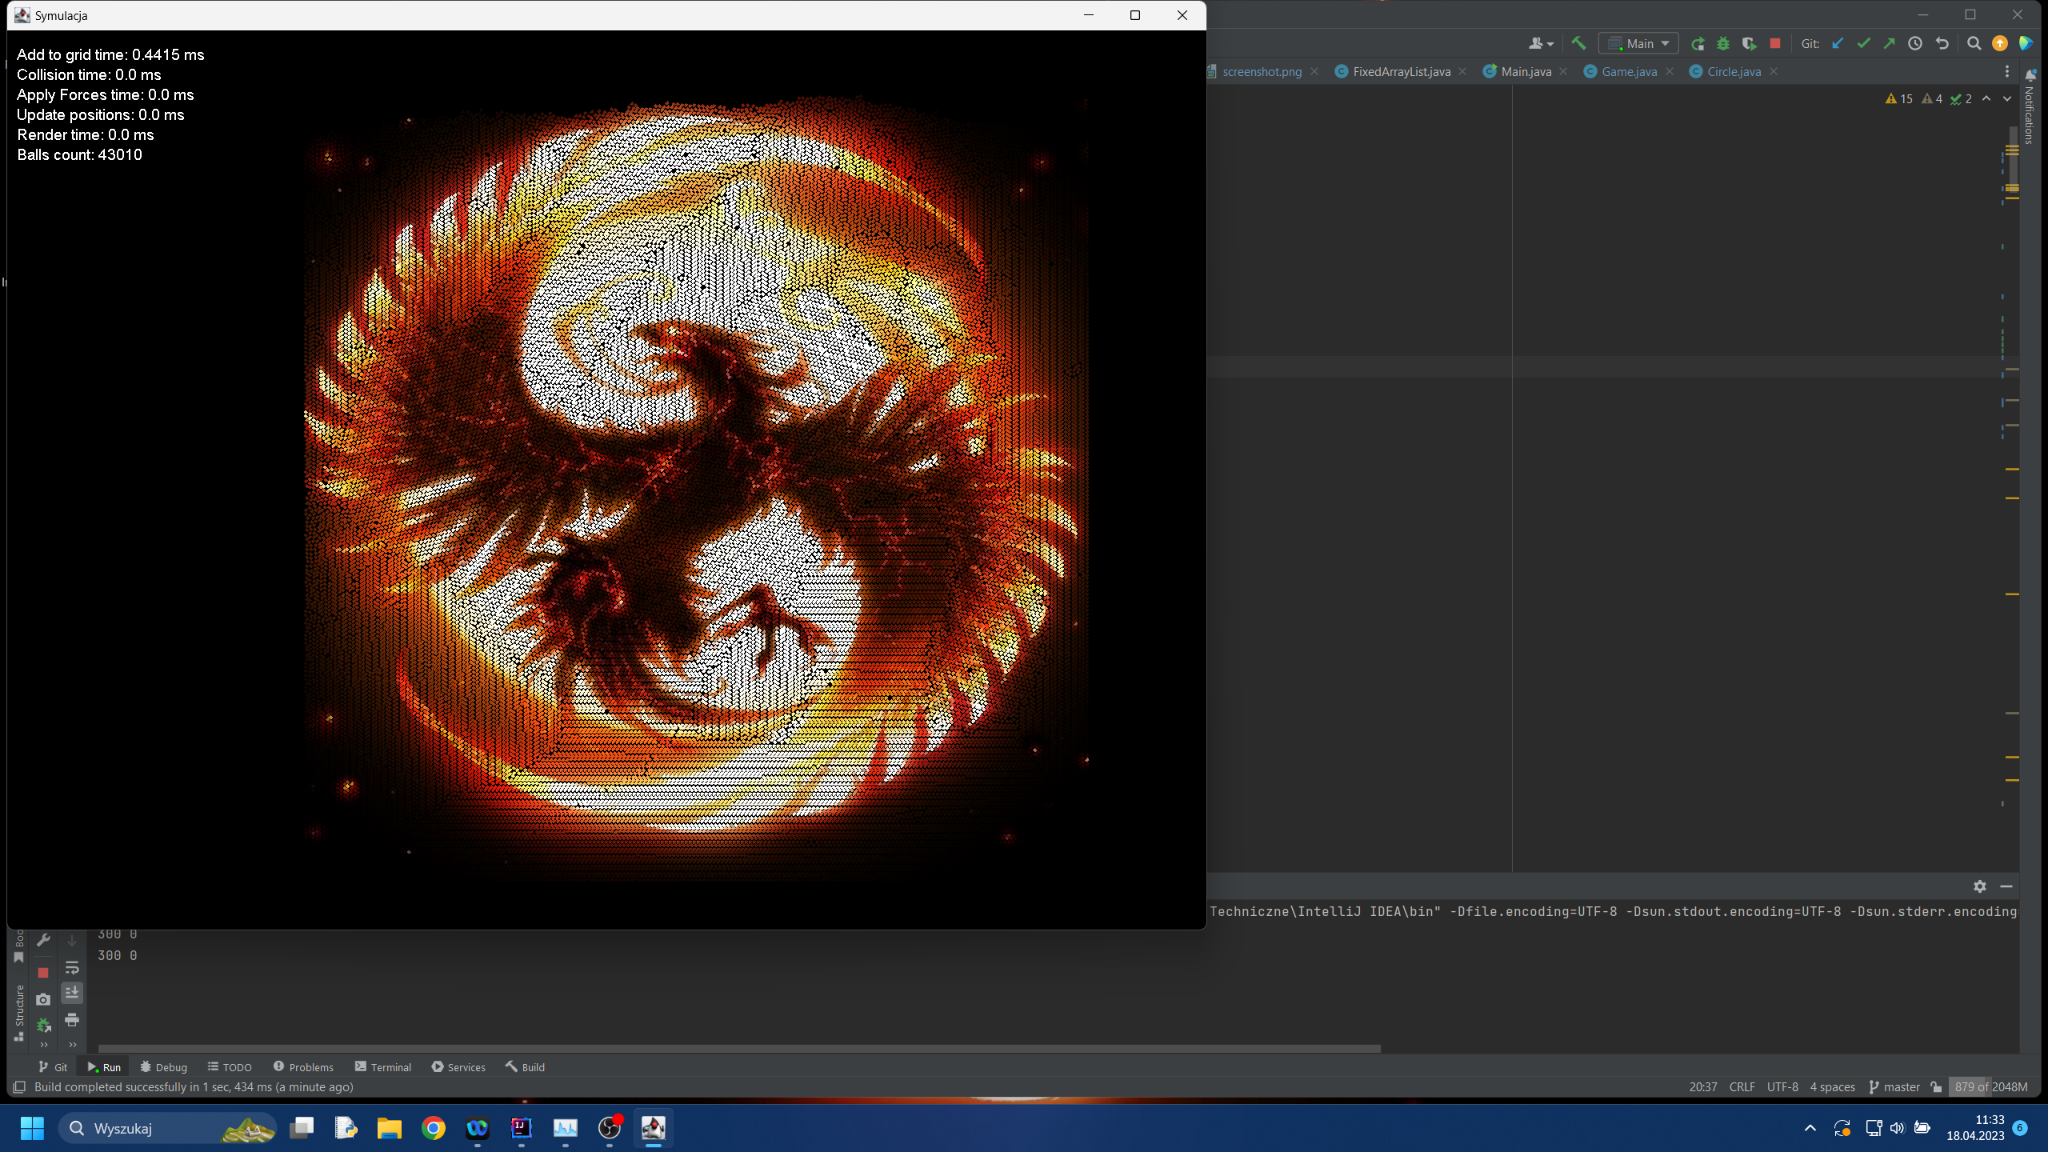
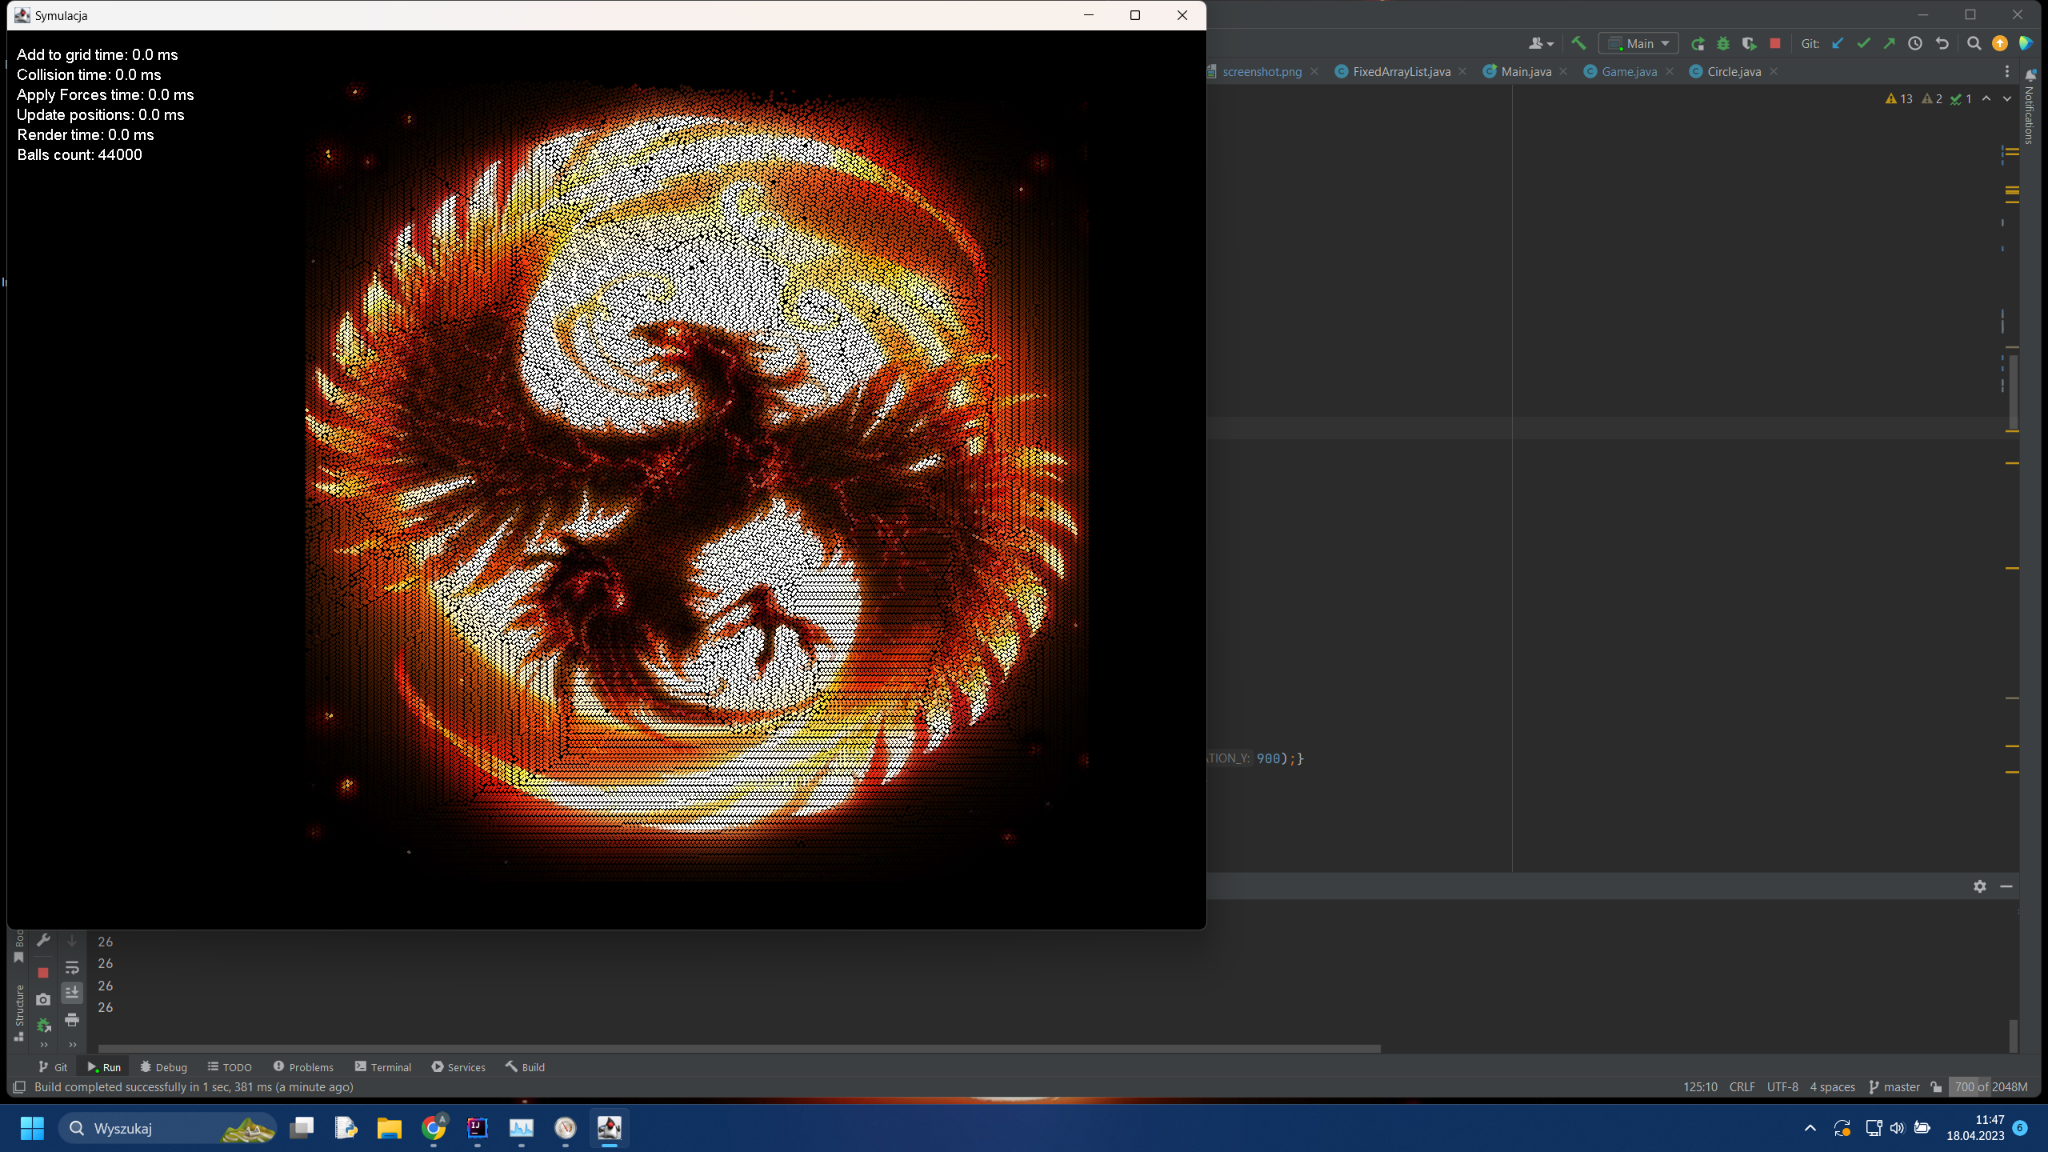
Clean code

diff --git a/src/main/GamePanel.java b/src/main/GamePanel.java
@@ -14,16 +14,14 @@ import addons.TimeCounter;
 import objectsToDraw.Circle;
 
 public class GamePanel extends JPanel {
-    private double lastTimeOfBallSpawn;
-    private boolean canCreateBall;
-    private final double ballTimeDelay;
+
     private final short SUBSTEPS = 8;
     private final double startGameTime;
-    private static int MAX_BALLS = 43000;
+    private static int MAX_BALLS = 44000;
     private int ballCount = 0;
 
     Circle[] listOfCircle = new Circle[MAX_BALLS + 300];
-    ArrayList<Color> listOfColors = new ArrayList<Color>();
+    ArrayList<Color> listOfColors = new ArrayList<>();
 
     private final int SIMULATION_X = 1000;
     private final int SIMULATION_Y = 900;
@@ -50,11 +48,7 @@ public class GamePanel extends JPanel {
     public GamePanel(Game game){
 
         this.game = game;
-//        circleConstraint = new CircleConstraints(GAME_WIDTH/2, GAME_HEIGHT/2, 425);
 
-        lastTimeOfBallSpawn = System.nanoTime();
-        canCreateBall = false;
-        ballTimeDelay = 0.02;
         startGameTime = System.nanoTime();
         try {
             imageController = new ImageController("res/Phoenix Wallpaper.jpg", "color_positions.txt");
@@ -67,7 +61,7 @@ public class GamePanel extends JPanel {
 
         timer = new TimeCounter();
         physics_time = new float[4];
-
+        setBackground(Color.black);
     }
 
     private void setPanelSize() {
@@ -94,31 +88,15 @@ public class GamePanel extends JPanel {
                 ballCount++;
             }
 
-            lastTimeOfBallSpawn = System.nanoTime();
-            canCreateBall = false;
+
         }
-        else if( System.nanoTime() - lastTimeOfBallSpawn > ballTimeDelay){
-            canCreateBall = true;
-        }
-        physics_time[0] = 0;
-        physics_time[1] = 0;
-        physics_time[2] = 0;
-        physics_time[3] = 0;
 
         for (int i = 0; i < SUBSTEPS; i++){
             add_objects_to_grid();
-            physics_time[0] += (float) timer.stop_miliseconds();
-            timer.start();
 //            find_collision_grid();
             find_collision_grid_threaded();
-            physics_time[1] += (float) timer.stop_miliseconds();
-            timer.start();
             apply_gravity();
-            physics_time[2] += (float) timer.stop_miliseconds();
-            timer.start();
             update_positions(((double)1/60) / SUBSTEPS);
-            physics_time[3] += (float) timer.stop_miliseconds();
-            timer.start();
             check_constraint_rectangle();
         }
         check_ending_of_simulation();
@@ -131,32 +109,20 @@ public class GamePanel extends JPanel {
         double x = (double)150 + (t * 29 % 450);
 //        double y = 50 + (t % 5) * 5;
         double y = 50 + 10 * (t % 7);
-        double randRadius = 2;
+
         Color color;
         try {color = listOfColors.get(t);}
         catch(Exception e){color = Color.WHITE;}
 
-        listOfCircle[ballCount] = new Circle(x, y, randRadius, color);
+        listOfCircle[ballCount] = new Circle(x, y, 2, color);
     }
 
 
     public void paintComponent(Graphics g){
-//        update();
-
-//        timer.start();
         super.paintComponent(g);
-
-        g.setColor(Color.BLACK);
-        g.fillRect(0, 0, SIMULATION_X, SIMULATION_Y);
-
         for (int i = 0; i < ballCount; i++) {
             listOfCircle[i].draw(g);
         }
-
-        check_ending_of_simulation();
-//        draw_collision_grid(g);
-//        render_time = (float) timer.stop_miliseconds();
-
     }
 
     public float[] getPhysics_time(){

diff --git a/src/main/Game.java b/src/main/Game.java
@@ -33,10 +33,6 @@ public class Game {
         run();
     }
 
-    public void update(){
-        gamePanel.update();
-    }
-
     public void run() {
         double timePerFrame = 1000000000.0 / FPS_SET;
         double timePerUpdate = 1000000000.0 / UPS_SET;
@@ -74,7 +70,7 @@ public class Game {
 
             if(System.currentTimeMillis() - lastCheck >= 1000 ){
                 lastCheck = System.currentTimeMillis();
-
+                System.out.println(frames);
 
                 frames = 0;
                 updates = 0;
